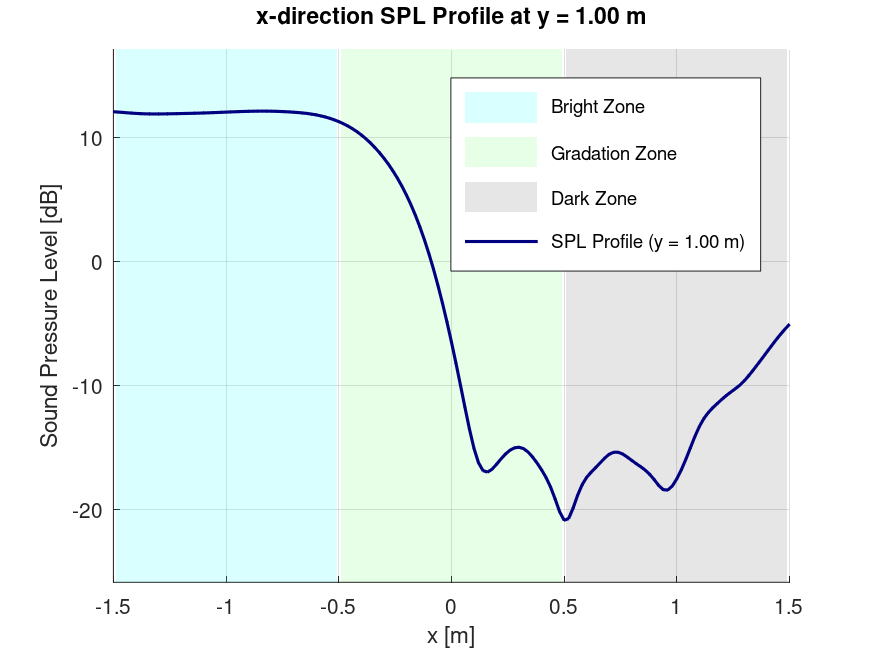
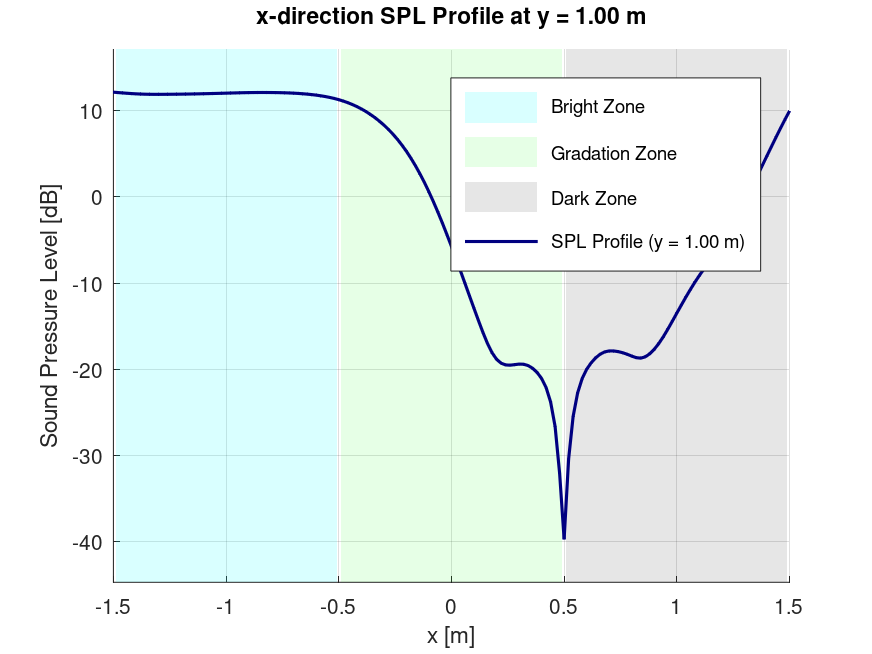
正則値変更

diff --git a/filter_pm.m b/filter_pm.m
@@ -23,7 +23,7 @@ function drv_ls = filter_pm(mic_geo, G, f, ang_wave, amp_src, Nsrc, c, num_bz, n
         % 最大固有値の10^-5倍
         % 行列が悪条件になるのを防ぐ
         %--------------------------------------------------
-        reg_para = 10^(-5) * eigs((g' * g), 1);
+        reg_para = 10^(-7) * eigs((g' * g), 1);
 
         p_des = zeros(n_mic, Nsrc);
         w_vec = ones(n_mic, 1); % 重みベクトルの初期化
@@ -72,7 +72,7 @@ function drv_ls = filter_pm(mic_geo, G, f, ang_wave, amp_src, Nsrc, c, num_bz, n
         dz_idx_start = num_bz + num_gz + 1;
         for i = dz_idx_start:n_mic
             p_des(i) = 0;
-            w_vec(i) = 1.0;
+            w_vec(i) = 100.0;
         end
 
         % 重み行列 W (対角行列)
